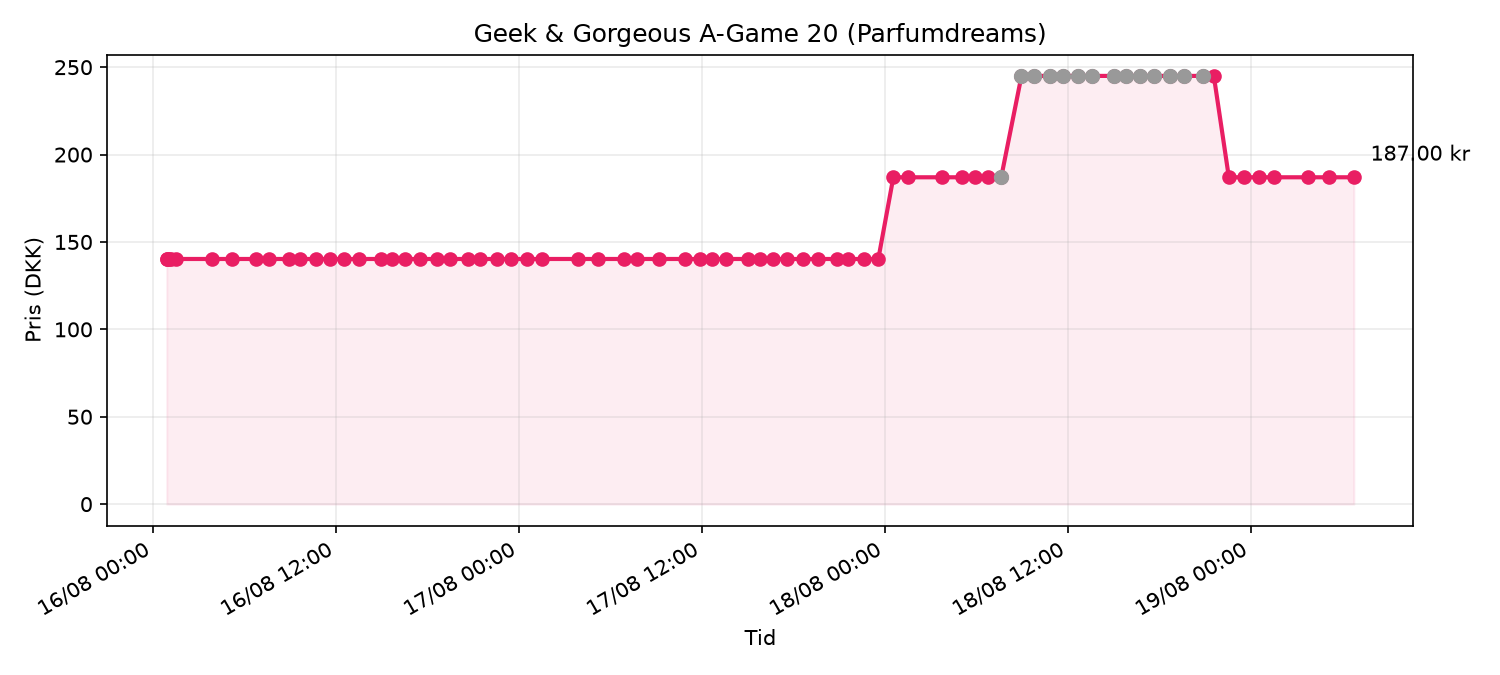
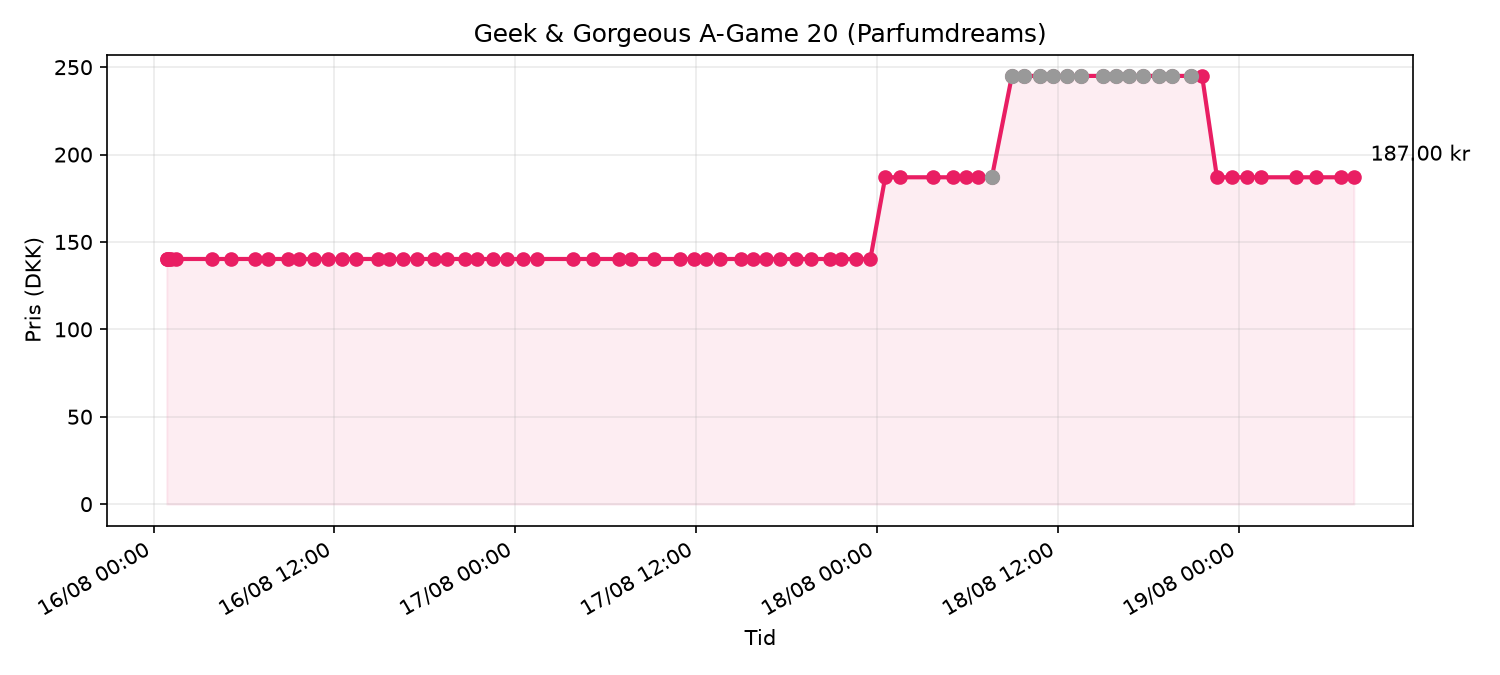
deploy: 3f1303c3fbec76ac7a1181720498d2eaee55bf5a

diff --git a/price_chart.html b/price_chart.html
@@ -13,7 +13,7 @@
 </head>
 <body>
   <h1>Geek & Gorgeous A-Game 20 (Parfumdreams)</h1>
-  <p class="meta">Senest tjekket: 19/08/2026 06:44 · Pris: <strong>187.00 kr</strong> · på lager</p>
+  <p class="meta">Senest tjekket: 19/08/2026 07:37 · Pris: <strong>187.00 kr</strong> · på lager</p>
   
   <p><a href="https://www.parfumdreams.dk/Geek-Gorgeous/Samlinger/101-aktive-stoffer/A-Game-20-Serum/index_137083.aspx?variation=221879">Åbn produkt på Parfumdreams</a></p>
   <img src="price_chart.png" alt="Prisgraf">
